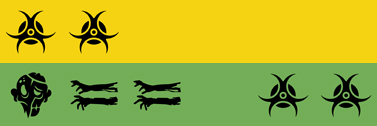
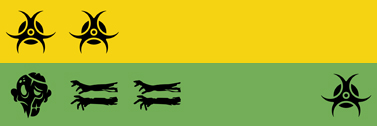
Change Zombie Dice Symbols
Replaced an Infection Symbol with a Blank Symbol.

Changed region(s): [[0.6711, 0.5714, 0.817, 0.9286], [0.7003, 0.5714, 0.7294, 0.5952]]

diff --git a/goodcopbadcop/goodcopbadcop.js b/goodcopbadcop/goodcopbadcop.js
@@ -3861,7 +3861,64 @@ dojo.style( dieNodeId, 'display', 'block' ); // show the die
             dojo.style( 'zombieDie1', 'display', 'none' ); // hide the die
             dojo.style( 'zombieDie2', 'display', 'none' ); // hide the die
             dojo.style( 'zombieDie3', 'display', 'none' ); // hide the die
-            this.tableDice.addToStock( param );
+
+            var randomNumber = Math.floor(Math.random() * 1000); // random number between 0-999
+
+            console.log('randomNumber:'+randomNumber);
+
+            //this.tableDice.addToStock( param );
+            this.tableDice.addToStockWithId( param, randomNumber );
+            console.log("param:"+param);
+
+            var htmlId = 'dice_item_'+randomNumber;
+
+            if(param == 6)
+            { // zombie face was rolled
+                if(document.getElementById(htmlId))
+                {
+                    this.addTooltip( htmlId, _('Causes the victim to turn into a zombie.'), '' ); // add a tooltip to explain
+                }
+            }
+
+            if(param == 7)
+            { // re-aim face was rolled
+                if(document.getElementById(htmlId))
+                {
+                    this.addTooltip( htmlId, _('Causes the zombie to aim at someone else.'), '' ); // add a tooltip to explain
+                }
+            }
+
+            if(param == 8)
+            { // re-aim face was rolled
+                if(document.getElementById(htmlId))
+                {
+                    this.addTooltip( htmlId, _('Causes the zombie to aim at someone else.'), '' ); // add a tooltip to explain
+                }
+            }
+
+            if(param == 9)
+            { // blank face was rolled
+                if(document.getElementById(htmlId))
+                {
+                    this.addTooltip( htmlId, _('This has no effect.'), '' ); // add a tooltip to explain
+                }
+            }
+
+            if(param == 10)
+            { // blank face was rolled
+                if(document.getElementById(htmlId))
+                {
+                    this.addTooltip( htmlId, _('This has no effect.'), '' ); // add a tooltip to explain
+                }
+            }
+
+            if(param == 11)
+            { // infection token face was rolled
+                if(document.getElementById(htmlId))
+                {
+                    this.addTooltip( htmlId, _('Adds an Infection Token to an Integrity Card of the victim, if possible.'), '' ); // add a tooltip to explain
+                }
+            }
 
         },
 

diff --git a/goodcopbadcop/goodcopbadcop.game.php b/goodcopbadcop/goodcopbadcop.game.php
@@ -1846,9 +1846,9 @@ class goodcopbadcop extends Table
 										return clienttranslate( 'Zombie Re-Aims' );
 								break;
 								case 9: // blank
+								case 10: // blank
 										return clienttranslate( 'No Effect' );
 								break;
-								case 10: // add extra infection token
 								case 11: // add extra infection token
 										return clienttranslate( 'Add Extra Infection Token' );
 								break;
@@ -7522,7 +7522,7 @@ class goodcopbadcop extends Table
 						self::incStat( 1, 'bites_taken', $targetPlayerId ); // increase end game player stat
 
 
-						$this->addInfectionToken($targetPlayerId, true, '', false); // add a infection token (if they don't already have 3)
+						//$this->addInfectionToken($targetPlayerId, true, '', false); // add a infection token (if they don't already have 3)
 						$this->rollZombieDice($shooterPlayerId, $targetPlayerId); // roll a zombie die for each infection token they have and take action for each zombie die face
 				}
 				else
@@ -7720,38 +7720,60 @@ class goodcopbadcop extends Table
 				if($this->getGameStateValue('ZOMBIES_EXPANSION') == 2)
 				{ // we are using the zombies expansion
 
-						if($this->isPlayerZombie($playerId))
-						{ // if already a zombie
+						$isTargetALeader = $this->isPlayerALeader($playerId); // see if the player turning into a zombie was a LEADER
+						if($isTargetALeader)
+						{ // a Leader is turning into a zombie (losing the game)
 
-								// notify everyone
-								self::notifyAllPlayers( "executeGunShootsZombie", clienttranslate( '${player_name} was already a zombie.' ), array(
-										'player_name' => $targetName
+								// mark them as eliminated in the database
+								$sqlUpdate = "UPDATE player SET ";
+								$sqlUpdate .= "is_eliminated=1 WHERE ";
+								$sqlUpdate .= "player_id=$playerId";
+
+								self::DbQuery( $sqlUpdate );
+
+								// NOTIFY ALL PLAYERS
+								$playerName = $this->getPlayerNameFromPlayerId($playerId);
+								self::notifyAllPlayers( 'eliminatePlayer', clienttranslate( '${player_name} has been eliminated.' ), array(
+													 'player_name' => $playerName,
+													 'eliminated_player_id' => $playerId
 								) );
-
-								// aim arms at self if they have any
-								$this->aimGun($playerId, $playerId); // update the gun in the database for who it is now aimed at
 						}
 						else
-						{ // not yet a zombie
+						{ // a non-Leader is turning into a zombie
 
-								// discard guns they were holding
-								$guns = $this->getGunsHeldByPlayer($playerId);
-								foreach( $guns as $gun )
-								{ // go through each gun (should only be 1)
-										$gunId = $gun['gun_id'];
-										$this->dropGun($gunId);
-										//throw new feException( "dropped gun $gunId");
+								if($this->isPlayerZombie($playerId))
+								{ // if already a zombie
+
+										// notify everyone
+										self::notifyAllPlayers( "executeGunShootsZombie", clienttranslate( '${player_name} was already a zombie.' ), array(
+												'player_name' => $targetName
+										) );
+
+										// aim arms at self if they have any
+										$this->aimGun($playerId, $playerId); // update the gun in the database for who it is now aimed at
 								}
+								else
+								{ // not yet a zombie
 
-								$this->zombifyPlayer($playerId); // update DB that they are a zombie and notify everyone (but do not drop guns or reveal cards)
+										// discard guns they were holding
+										$guns = $this->getGunsHeldByPlayer($playerId);
+										foreach( $guns as $gun )
+										{ // go through each gun (should only be 1)
+												$gunId = $gun['gun_id'];
+												$this->dropGun($gunId);
+												//throw new feException( "dropped gun $gunId");
+										}
 
-								//$countguns = count($guns);
-								//throw new feException( "count guns:$countguns");
+										$this->zombifyPlayer($playerId); // update DB that they are a zombie and notify everyone (but do not drop guns or reveal cards)
 
-								$this->pickUpGun($playerId, $this->getStateName()); // pick up arms
+										//$countguns = count($guns);
+										//throw new feException( "count guns:$countguns");
 
-								// aim arms at self if they have any
-								$this->aimGun($playerId, $playerId); // update the gun in the database for who it is now aimed at
+										$this->pickUpGun($playerId, $this->getStateName()); // pick up arms
+
+										// aim arms at self if they have any
+										$this->aimGun($playerId, $playerId); // update the gun in the database for who it is now aimed at
+								}
 						}
 				}
 				else
@@ -9995,10 +10017,10 @@ class goodcopbadcop extends Table
 								break;
 
 								case 9: // blank
+								case 10: // blank
 										// do nothing
 								break;
 
-								case 10: // add extra infection token
 								case 11: // add extra infection token
 										$this->addInfectionToken($playerBeingBitten, true, '', true); // give them an extra Infection Token and notify them
 								break;
@@ -10006,7 +10028,8 @@ class goodcopbadcop extends Table
 				}
 
 				// ELIMINATE A NON-ZOMBIE IF THEY WERE BITTEN
-				if($zombieFaceRolled && !$isTargetALeader)
+//				if($zombieFaceRolled && !$isTargetALeader)
+				if($zombieFaceRolled)
 				{ // we are zombifying a NON-leader
 
 						$this->eliminatePlayer($playerBeingBitten); // turn into a zombie, notify everyone, reveal all cards, drop guns
